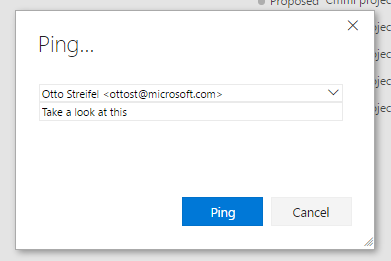
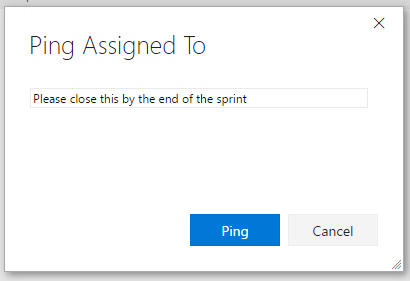
v1.1.2 Release ping by field

diff --git a/scripts/pingContext.ts b/scripts/pingContext.ts
@@ -4,16 +4,18 @@ import { getClient } from "TFS/WorkItemTracking/RestClient";
 import { WorkItem } from "TFS/WorkItemTracking/Contracts";
 import { JsonPatchOperation, Operation, IdentityRef } from "VSS/WebApi/Contracts";
 import { isIdentityField } from "./identities";
+import { trackEvent } from "./events";
 
 function pingWorkItems(message: string, workItemIds: number[], refNameOrIdentity: string | IdentityRef) {
     const wiPromise = refNameOrIdentity instanceof String || typeof refNameOrIdentity === "string" ? getClient().getWorkItems(workItemIds, [refNameOrIdentity]) : Q([] as WorkItem[]);
     return wiPromise.then(wis => {
         if (refNameOrIdentity instanceof String || typeof refNameOrIdentity === "string") {
             const refName = refNameOrIdentity;
+            trackEvent("ping", { identityFrom: refName });
             return Q.all(wis.map(wi => {
                 const idstring = wi.fields[refName];
                 const match: string[] = idstring.match(/(.*) <(.*)>/) || ["", "", "No identity found"];
-                const [,displayName, uniqueName] = match;
+                const [, displayName, uniqueName] = match;
 
                 const updateDoc: JsonPatchOperation = {
                     op: Operation.Add,
@@ -24,6 +26,7 @@ function pingWorkItems(message: string, workItemIds: number[], refNameOrIdentity
                 getClient().updateWorkItem([updateDoc], wi.id);
             }));
         } else {
+            trackEvent("ping", { identityFrom: "value" });
             const identity = refNameOrIdentity;
             const updateDoc: JsonPatchOperation = {
                 op: Operation.Add,
@@ -71,6 +74,7 @@ function createChooseIdentityDialog(actionContext: { selectedWorkItems: number[]
             updateOkButton: (enabled) => externalDialog.updateOkButton(enabled)
         };
         dialogService.openDialog(contentContribution, dialogOptions, pingContext).then(dialog => {
+            trackEvent("pingDialog", { identityFrom: refName || "value" });
             externalDialog = dialog;
             dialog.getContributionInstance("choose-identity").then((callbacks: IPingCallbacks) => {
                 getArguments = callbacks.getArguments as any;
@@ -81,14 +85,14 @@ function createChooseIdentityDialog(actionContext: { selectedWorkItems: number[]
 
 function createMenuItems(workItemIds: number[]): IPromise<IContributedMenuItem[]> {
     return getClient().getWorkItems(workItemIds).then((workitems: WorkItem[]) => {
-        const filledIdFields: {[refName: string]: boolean} = {};
-        if (workitems.length > 0)  {
+        const filledIdFields: { [refName: string]: boolean } = {};
+        if (workitems.length > 0) {
             for (let id in workitems[0].fields) {
                 if (isIdentityField(id)) {
                     filledIdFields[id] = true;
                 }
             }
-            for (let {fields} of workitems.slice(1)) {
+            for (let { fields } of workitems.slice(1)) {
                 for (let id in filledIdFields) {
                     filledIdFields[id] = filledIdFields[id] && Object.keys(fields).some(f => f === id);
                 }
@@ -98,7 +102,7 @@ function createMenuItems(workItemIds: number[]): IPromise<IContributedMenuItem[]
 
         // Now get each wit for the selected work items.
         return getClient().getFields().then(fields => {
-            const nameLookup: {[referenceName: string]: string} = {};
+            const nameLookup: { [referenceName: string]: string } = {};
             for (let field of fields) {
                 nameLookup[field.referenceName] = field.name;
             }

diff --git a/scripts/events.ts b/scripts/events.ts
@@ -1,0 +1,8 @@
+export function trackEvent(name: string, properties?: {
+    [name: string]: string;
+}) {
+    if (window["appInsights"]) {
+        window["appInsights"].trackEvent(name, properties);
+        window["appInsights"].flush();
+    }
+}

diff --git a/details.md b/details.md
@@ -1,7 +1,8 @@
-At mention an identity in one or more work items at once from the query and backlogs pages.  
+At mention an identity or field value in one or more work items at once from the query and backlogs pages.  
 ![Context page](img/queryContext.png)  
 Optionally include a message with the mention.  
 ![Ping dialog](img/pingDialog.png)  
 
 # Change Log
+(04/04/17) v1.1.1 Ping by field value  
 (04/01/17) v1.0.1 Initial Version  
